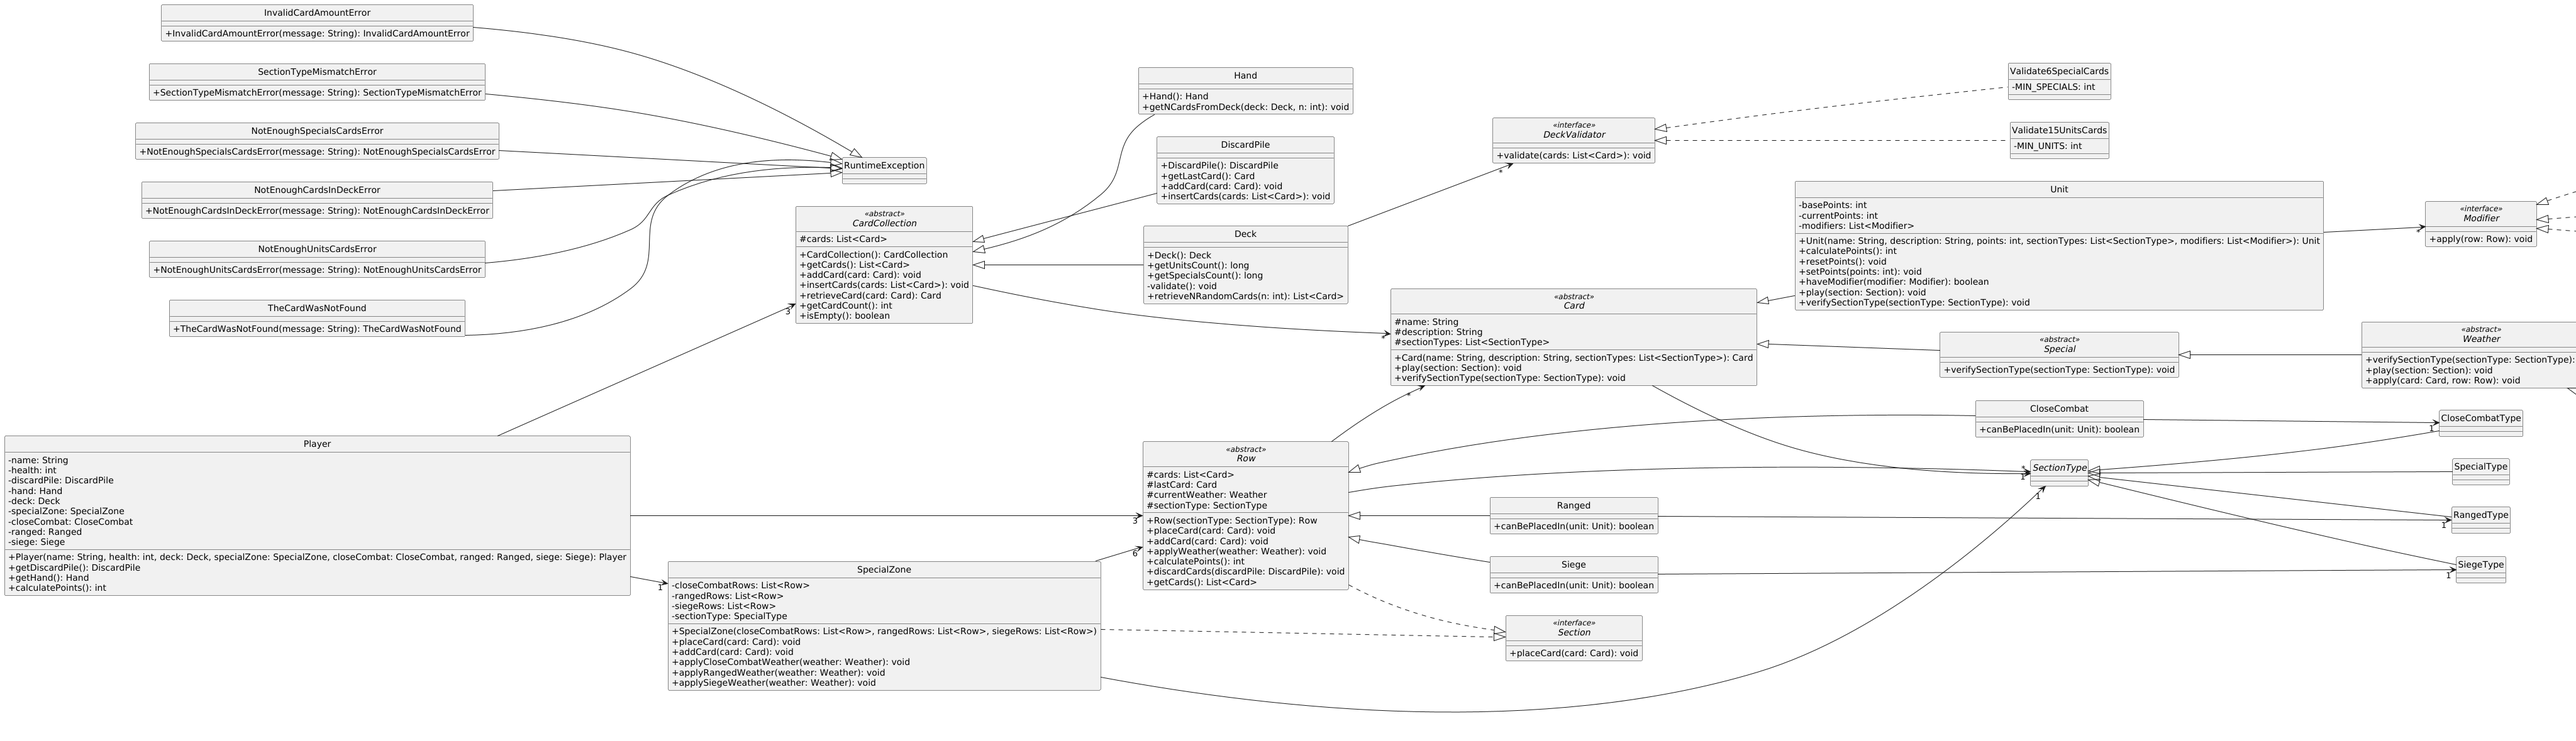
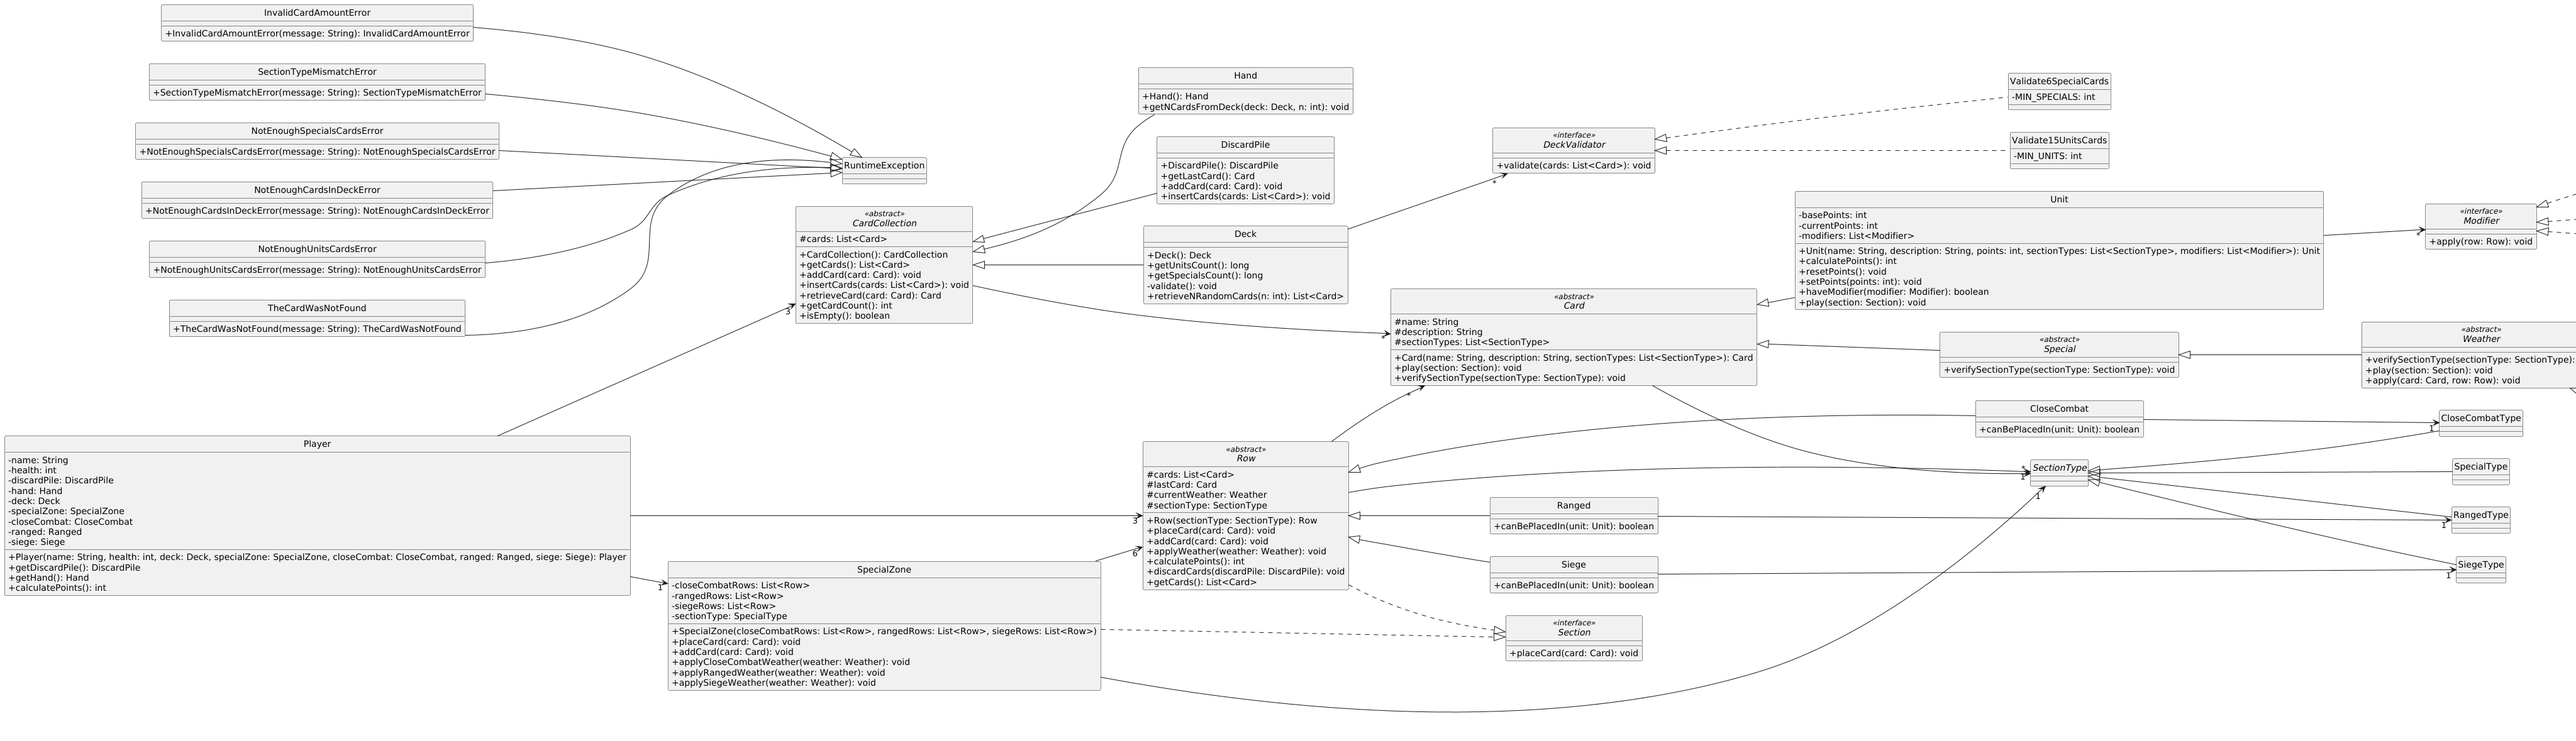
correccion de método que no debería estar

diff --git a/src/main/java/edu/fiuba/algo3/modelo/cards/units/Unit.java b/src/main/java/edu/fiuba/algo3/modelo/cards/units/Unit.java
@@ -35,11 +35,6 @@ public class Unit extends Card {
         }
     }
 
-    @Override
-    public void verifySectionType(SectionType sectionType) {
-        super.verifySectionType(sectionType);
-    }
-
     public int calculatePoints() {
         return currentPoints;
     }
